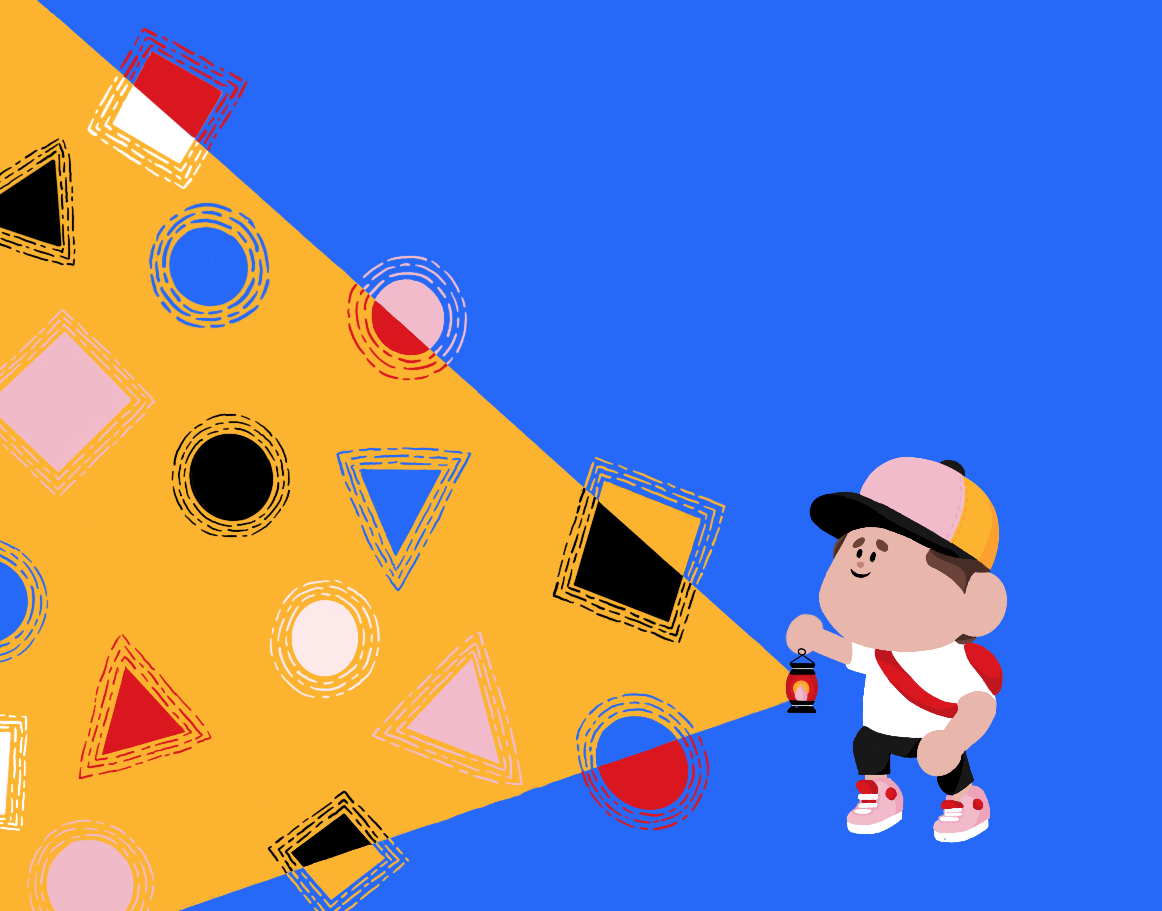
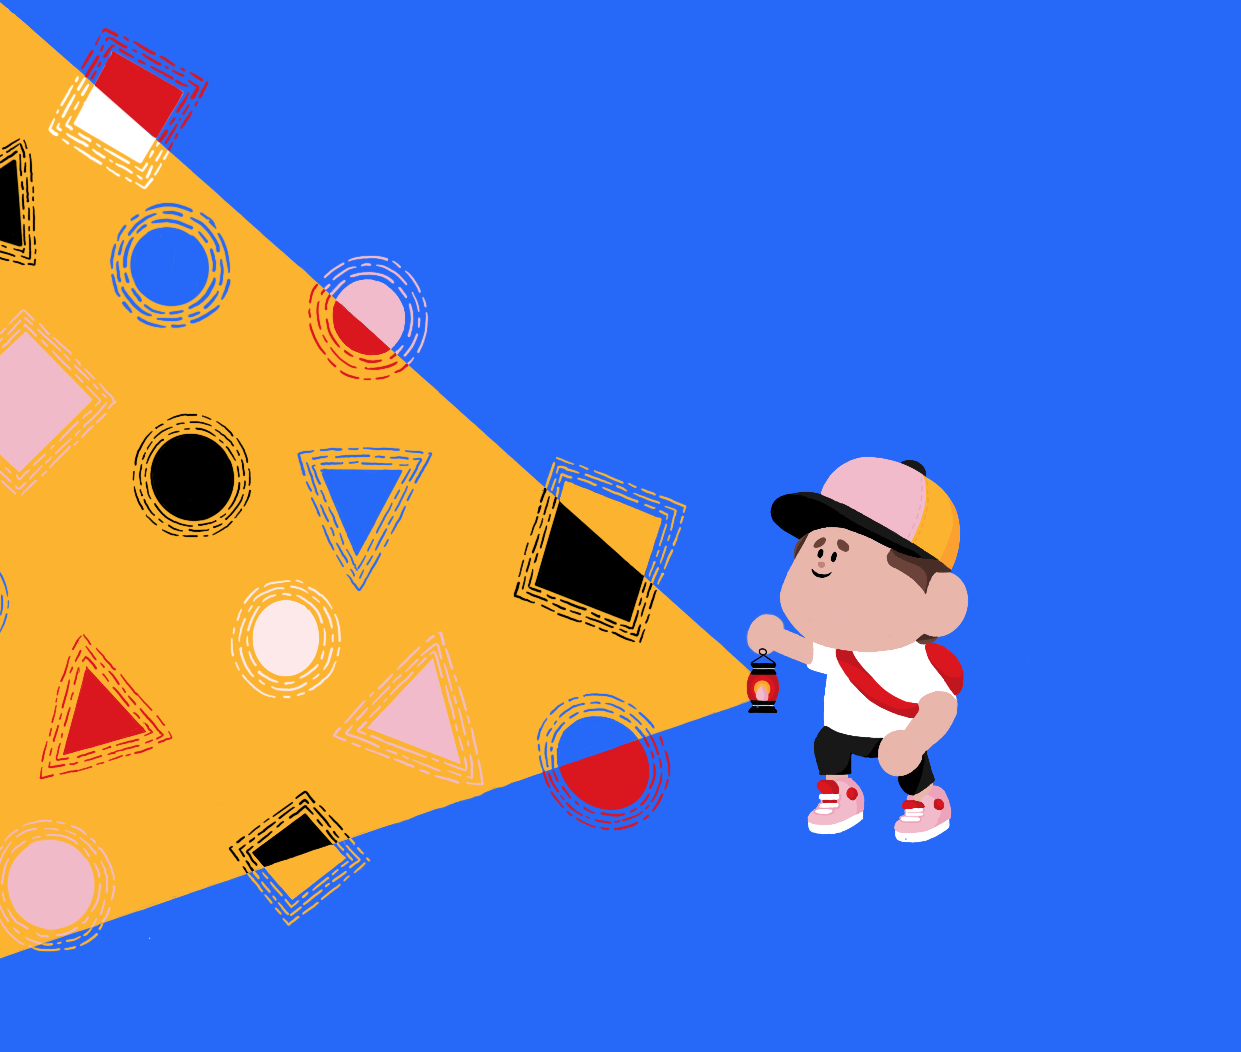
Changed the landing, login and signup page images

diff --git a/app/signup/page.tsx b/app/signup/page.tsx
@@ -2,7 +2,7 @@
 
 import Image from "next/image";
 import logoBlack from "@/public/logos/aurora-black.png";
-import landingImg from "@/public/landing.png";
+import landingImg from "@/public/lantern-boy.png";
 import { useRouter } from "next/navigation";
 import { useState } from "react";
 import { Progress } from "@/components/ui/progress";
@@ -19,11 +19,11 @@ export default function Signup() {
 
   return (
     <div className="h-screen flex flex-row">
-      <div className="flex-1 bg-[#ffe5cc] flex items-center justify-center">
+      <div className="flex-1 bg-[#2669F8] flex items-center">
         <Image
           src={landingImg}
-          alt="Aurora logo"
-          width={550}
+          alt="Landing image"
+          width={800}
           height={100}
         />
       </div>

diff --git a/app/login/page.tsx b/app/login/page.tsx
@@ -2,7 +2,7 @@
 
 import Image from "next/image";
 import logoBlack from "@/public/logos/aurora-black.png";
-import landingImg from "@/public/landing.png";
+import landingImg from "@/public/lantern-boy.png";
 import { Button } from "@/components/ui/button";
 import { useRouter } from "next/navigation";
 import { Label } from "@/components/ui/label";
@@ -49,11 +49,11 @@ export default function Login() {
 
   return (
     <div className="h-screen flex flex-row">
-      <div className="flex-1 bg-[#ffe5cc] flex items-center justify-center">
+      <div className="flex-1 bg-[#2669F8] flex items-center">
         <Image
           src={landingImg}
           alt="Landing image"
-          width={550}
+          width={800}
           height={100}
         />
       </div>

diff --git a/app/landing/page.tsx b/app/landing/page.tsx
@@ -2,7 +2,7 @@
 
 import Image from "next/image";
 import logoBlackText from "@/public/logos/aurora-black-text.png";
-import landingImg from "@/public/landing.png";
+import landingImg from "@/public/lantern-boy.png";
 import { Button } from "@/components/ui/button";
 import { useRouter } from "next/navigation";
 
@@ -11,11 +11,11 @@ export default function Landing() {
 
   return (
     <div className="h-screen flex flex-row">
-      <div className="flex-1 bg-[#ffe5cc] flex items-center justify-center">
+      <div className="flex-1 bg-[#2669F8] flex items-center">
         <Image
           src={landingImg}
-          alt="Aurora logo"
-          width={550}
+          alt="Landing image"
+          width={800}
           height={100}
         />
       </div>
